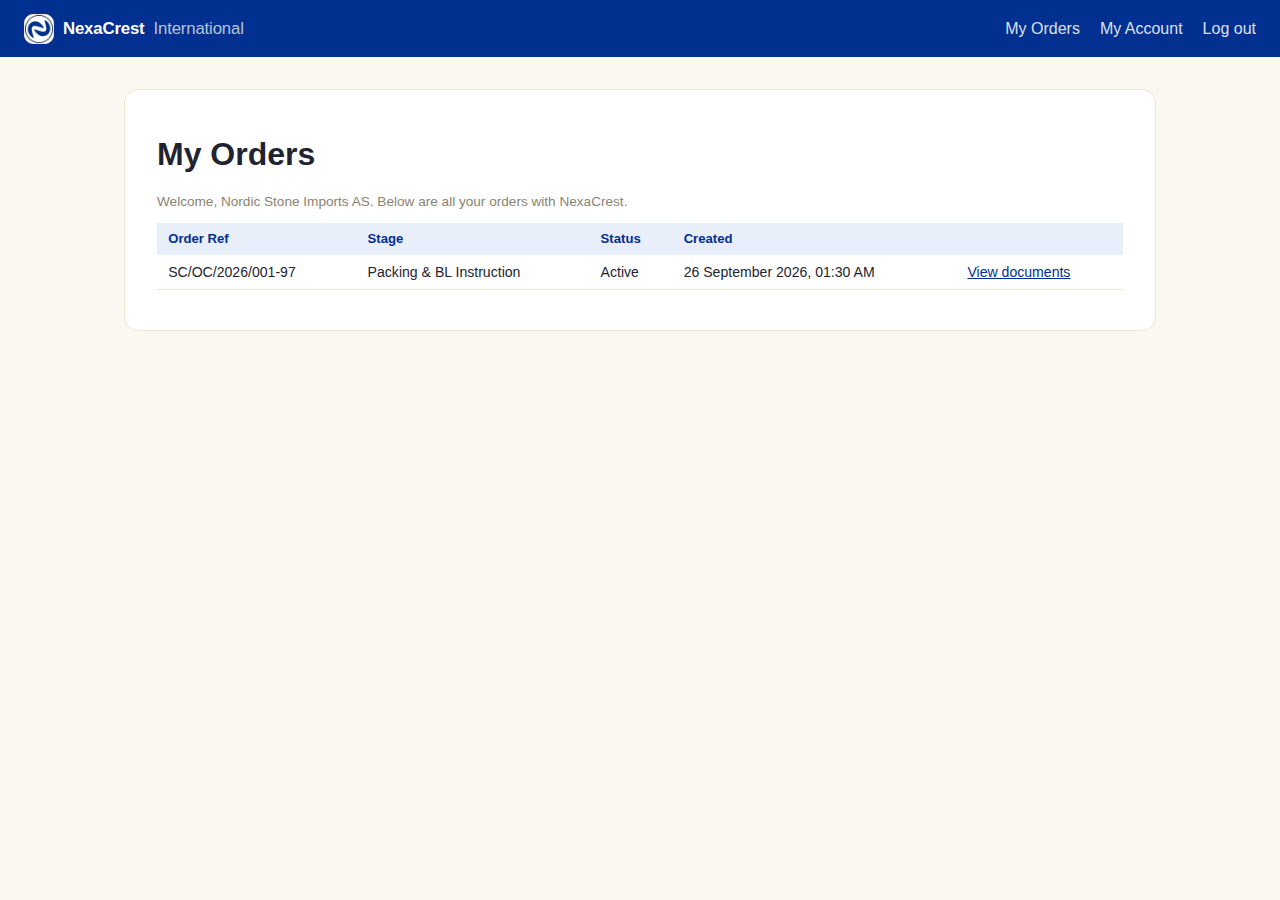
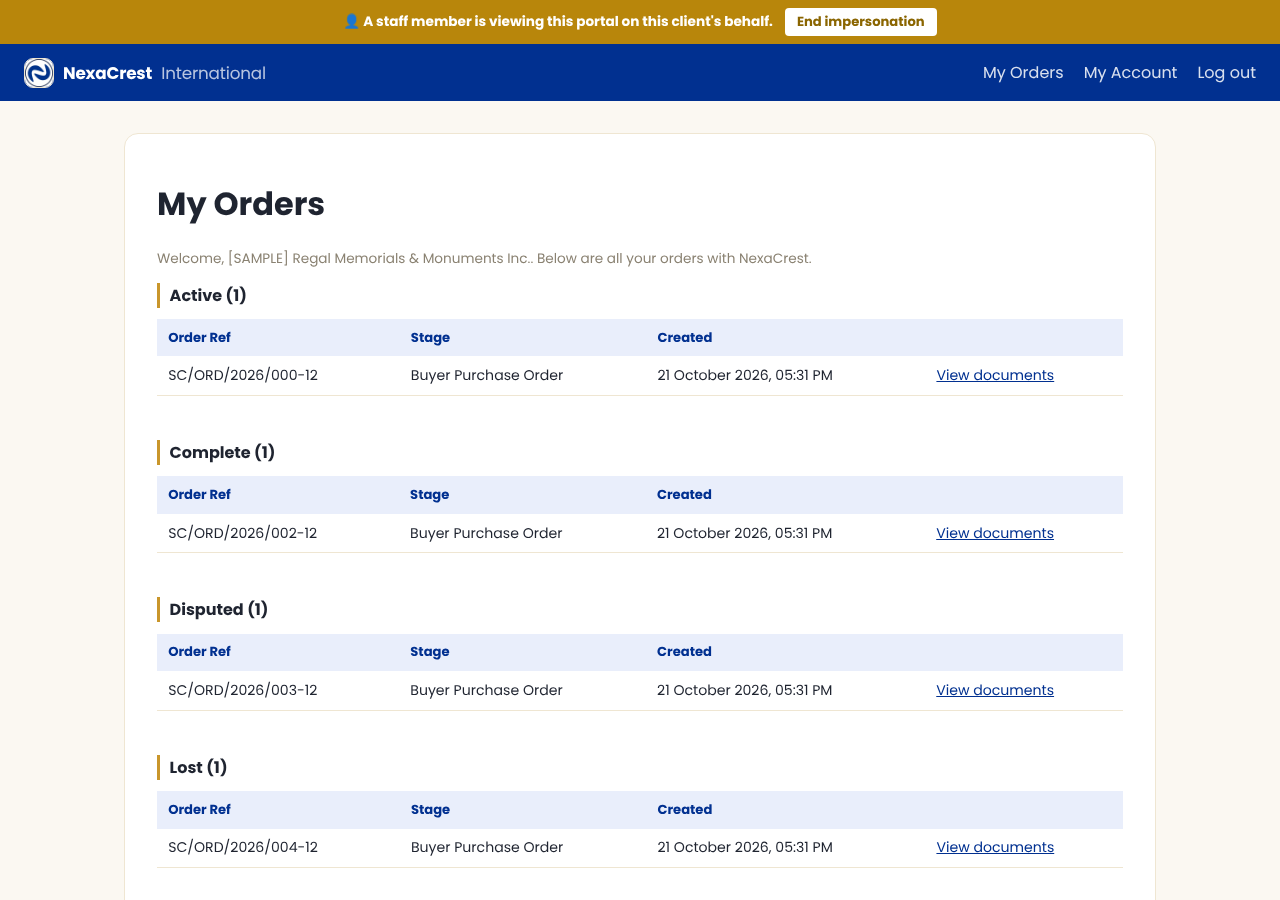
Capture real screenshots for the new Kanban boards, Complaints, and grouped client dashboard
Drove the live PHP app with Playwright (staff login, Kanban preference,
logged/replied-to test complaints, client-portal impersonation) to
capture six real, current screenshots, uniform across all three SOP
mirrors:

- kanban_orders.png — Orders list under the Kanban template
- complaints_kanban.png — Complaints Kanban board (Open/Acknowledged/Resolved)
- complaint_staff_panel.png — an order's Complaints screen: log form,
  per-complaint status control, and the two-way Conversation thread
- portal_dashboard.png — replaces the old flat-list client dashboard
  screenshot with the new grouped-by-status view (Active/Complete/
  Disputed/Lost)
- portal_complaint_form.png — client portal's "Report a Process Issue"
  section with a live conversation
- portal_feedback.png — client portal's Order Feedback section

Wired each into the chapter that already described it in text
(19-complaints.md, 15-admin-settings.md's UI Template section,
12-client-portal.md), so the SOP illustrations now match the SOP text.

All test data used to pose these screenshots (temporary admin password,
UI template preference, client impersonation toggle, order status
overrides, the logged complaints/replies/feedback row) was reverted or
deleted afterward; the dev database is back to its prior state.

DB CHANGES: NO — documentation/screenshots only; the temporary DB edits
used to stage the screenshots were all reverted after capture.

Claude-Session: https://claude.ai/code/session_01AKvYxJYrzixo23h6oBsh5w

diff --git a/NODE_MySQL_Version/docs/SOP/19-complaints.md b/NODE_MySQL_Version/docs/SOP/19-complaints.md
@@ -66,7 +66,11 @@ permission above) opens the **global complaint log** — every complaint
 across every order, filterable by status — the same pattern as the global
 Disputes log. This is deliberately its own page rather than folded into
 Disputes: a complaint has nothing to do with cancellation, so mixing the
-two logs would make neither one easy to scan.
+two logs would make neither one easy to scan. On the Kanban UI template
+(see [Admin & Settings](./15-admin-settings.md#ui-template-preference--standard-vs-kanban)),
+this same list renders as a board instead, columned by status:
+
+![Complaints — Kanban board, Open / Acknowledged / Resolved](./images/complaints_kanban.png)
 
 From **Complaints** on the order page itself:
 
@@ -98,7 +102,9 @@ direction), a Complaint's thread is genuinely two-way:
 Because the thread lives on the complaint, and the complaint itself is
 reached from the order's own Complaints screen, a complaint's entire
 history — the original description, every status change, and every reply
-in both directions — is always part of that order's record.
+in both directions — is always part of that order's record:
+
+![An order's Complaints screen — Log Complaint, per-complaint Status, and the Conversation thread](./images/complaint_staff_panel.png)
 
 ## Who gets notified
 
@@ -129,7 +135,9 @@ If staff or the client has already posted a reply, the client sees the
 full conversation on their own portal page and can reply again themselves
 — there's no limit on how many messages either side can send, and no
 status visible to the client (Open/Acknowledged/Resolved is an internal
-staff field; the client just sees the conversation itself).
+staff field; the client just sees the conversation itself):
+
+![Client portal — Report a Process Issue, with the full conversation so far](./images/portal_complaint_form.png)
 
 ## What happens next
 

diff --git a/PHP_MySQL_Version/docs/SOP/19-complaints.md b/PHP_MySQL_Version/docs/SOP/19-complaints.md
@@ -66,7 +66,11 @@ permission above) opens the **global complaint log** — every complaint
 across every order, filterable by status — the same pattern as the global
 Disputes log. This is deliberately its own page rather than folded into
 Disputes: a complaint has nothing to do with cancellation, so mixing the
-two logs would make neither one easy to scan.
+two logs would make neither one easy to scan. On the Kanban UI template
+(see [Admin & Settings](./15-admin-settings.md#ui-template-preference--standard-vs-kanban)),
+this same list renders as a board instead, columned by status:
+
+![Complaints — Kanban board, Open / Acknowledged / Resolved](./images/complaints_kanban.png)
 
 From **Complaints** on the order page itself:
 
@@ -98,7 +102,9 @@ direction), a Complaint's thread is genuinely two-way:
 Because the thread lives on the complaint, and the complaint itself is
 reached from the order's own Complaints screen, a complaint's entire
 history — the original description, every status change, and every reply
-in both directions — is always part of that order's record.
+in both directions — is always part of that order's record:
+
+![An order's Complaints screen — Log Complaint, per-complaint Status, and the Conversation thread](./images/complaint_staff_panel.png)
 
 ## Who gets notified
 
@@ -129,7 +135,9 @@ If staff or the client has already posted a reply, the client sees the
 full conversation on their own portal page and can reply again themselves
 — there's no limit on how many messages either side can send, and no
 status visible to the client (Open/Acknowledged/Resolved is an internal
-staff field; the client just sees the conversation itself).
+staff field; the client just sees the conversation itself):
+
+![Client portal — Report a Process Issue, with the full conversation so far](./images/portal_complaint_form.png)
 
 ## What happens next
 

diff --git a/docs/SOP/19-complaints.md b/docs/SOP/19-complaints.md
@@ -66,7 +66,11 @@ permission above) opens the **global complaint log** — every complaint
 across every order, filterable by status — the same pattern as the global
 Disputes log. This is deliberately its own page rather than folded into
 Disputes: a complaint has nothing to do with cancellation, so mixing the
-two logs would make neither one easy to scan.
+two logs would make neither one easy to scan. On the Kanban UI template
+(see [Admin & Settings](./15-admin-settings.md#ui-template-preference--standard-vs-kanban)),
+this same list renders as a board instead, columned by status:
+
+![Complaints — Kanban board, Open / Acknowledged / Resolved](./images/complaints_kanban.png)
 
 From **Complaints** on the order page itself:
 
@@ -98,7 +102,9 @@ direction), a Complaint's thread is genuinely two-way:
 Because the thread lives on the complaint, and the complaint itself is
 reached from the order's own Complaints screen, a complaint's entire
 history — the original description, every status change, and every reply
-in both directions — is always part of that order's record.
+in both directions — is always part of that order's record:
+
+![An order's Complaints screen — Log Complaint, per-complaint Status, and the Conversation thread](./images/complaint_staff_panel.png)
 
 ## Who gets notified
 
@@ -129,7 +135,9 @@ If staff or the client has already posted a reply, the client sees the
 full conversation on their own portal page and can reply again themselves
 — there's no limit on how many messages either side can send, and no
 status visible to the client (Open/Acknowledged/Resolved is an internal
-staff field; the client just sees the conversation itself).
+staff field; the client just sees the conversation itself):
+
+![Client portal — Report a Process Issue, with the full conversation so far](./images/portal_complaint_form.png)
 
 ## What happens next
 

diff --git a/NODE_MySQL_Version/docs/SOP/15-admin-settings.md b/NODE_MySQL_Version/docs/SOP/15-admin-settings.md
@@ -436,7 +436,9 @@ screens used everywhere in this manual's screenshots) and **Kanban** (the
 same underlying data, shown as a board of cards in columns instead). This
 is purely a different way of looking at the same records — switching
 templates never changes what data exists, who can act on it, or any
-permission check; it only changes how a handful of list screens render.
+permission check; it only changes how a handful of list screens render:
+
+![The Orders list under the Kanban template — one column per stage, with a status-bucket filter row above](./images/kanban_orders.png)
 
 Three places control this, and they resolve in order — a person's own
 choice wins if they made one, otherwise the company default applies,

diff --git a/PHP_MySQL_Version/docs/SOP/15-admin-settings.md b/PHP_MySQL_Version/docs/SOP/15-admin-settings.md
@@ -436,7 +436,9 @@ screens used everywhere in this manual's screenshots) and **Kanban** (the
 same underlying data, shown as a board of cards in columns instead). This
 is purely a different way of looking at the same records — switching
 templates never changes what data exists, who can act on it, or any
-permission check; it only changes how a handful of list screens render.
+permission check; it only changes how a handful of list screens render:
+
+![The Orders list under the Kanban template — one column per stage, with a status-bucket filter row above](./images/kanban_orders.png)
 
 Three places control this, and they resolve in order — a person's own
 choice wins if they made one, otherwise the company default applies,

diff --git a/docs/SOP/15-admin-settings.md b/docs/SOP/15-admin-settings.md
@@ -436,7 +436,9 @@ screens used everywhere in this manual's screenshots) and **Kanban** (the
 same underlying data, shown as a board of cards in columns instead). This
 is purely a different way of looking at the same records — switching
 templates never changes what data exists, who can act on it, or any
-permission check; it only changes how a handful of list screens render.
+permission check; it only changes how a handful of list screens render:
+
+![The Orders list under the Kanban template — one column per stage, with a status-bucket filter row above](./images/kanban_orders.png)
 
 Three places control this, and they resolve in order — a person's own
 choice wins if they made one, otherwise the company default applies,

diff --git a/NODE_MySQL_Version/docs/SOP/12-client-portal.md b/NODE_MySQL_Version/docs/SOP/12-client-portal.md
@@ -179,6 +179,8 @@ Opening an order (**View documents**) shows, top to bottom:
    page, and everyone holding `manage_orders` gets an in-app notification
    the moment feedback comes in.
 
+   ![Client portal — Order Feedback](./images/portal_feedback.png)
+
 ### My Account
 
 The only self-service screen outside a specific order — the buyer can

diff --git a/PHP_MySQL_Version/docs/SOP/12-client-portal.md b/PHP_MySQL_Version/docs/SOP/12-client-portal.md
@@ -179,6 +179,8 @@ Opening an order (**View documents**) shows, top to bottom:
    page, and everyone holding `manage_orders` gets an in-app notification
    the moment feedback comes in.
 
+   ![Client portal — Order Feedback](./images/portal_feedback.png)
+
 ### My Account
 
 The only self-service screen outside a specific order — the buyer can

diff --git a/docs/SOP/12-client-portal.md b/docs/SOP/12-client-portal.md
@@ -179,6 +179,8 @@ Opening an order (**View documents**) shows, top to bottom:
    page, and everyone holding `manage_orders` gets an in-app notification
    the moment feedback comes in.
 
+   ![Client portal — Order Feedback](./images/portal_feedback.png)
+
 ### My Account
 
 The only self-service screen outside a specific order — the buyer can
